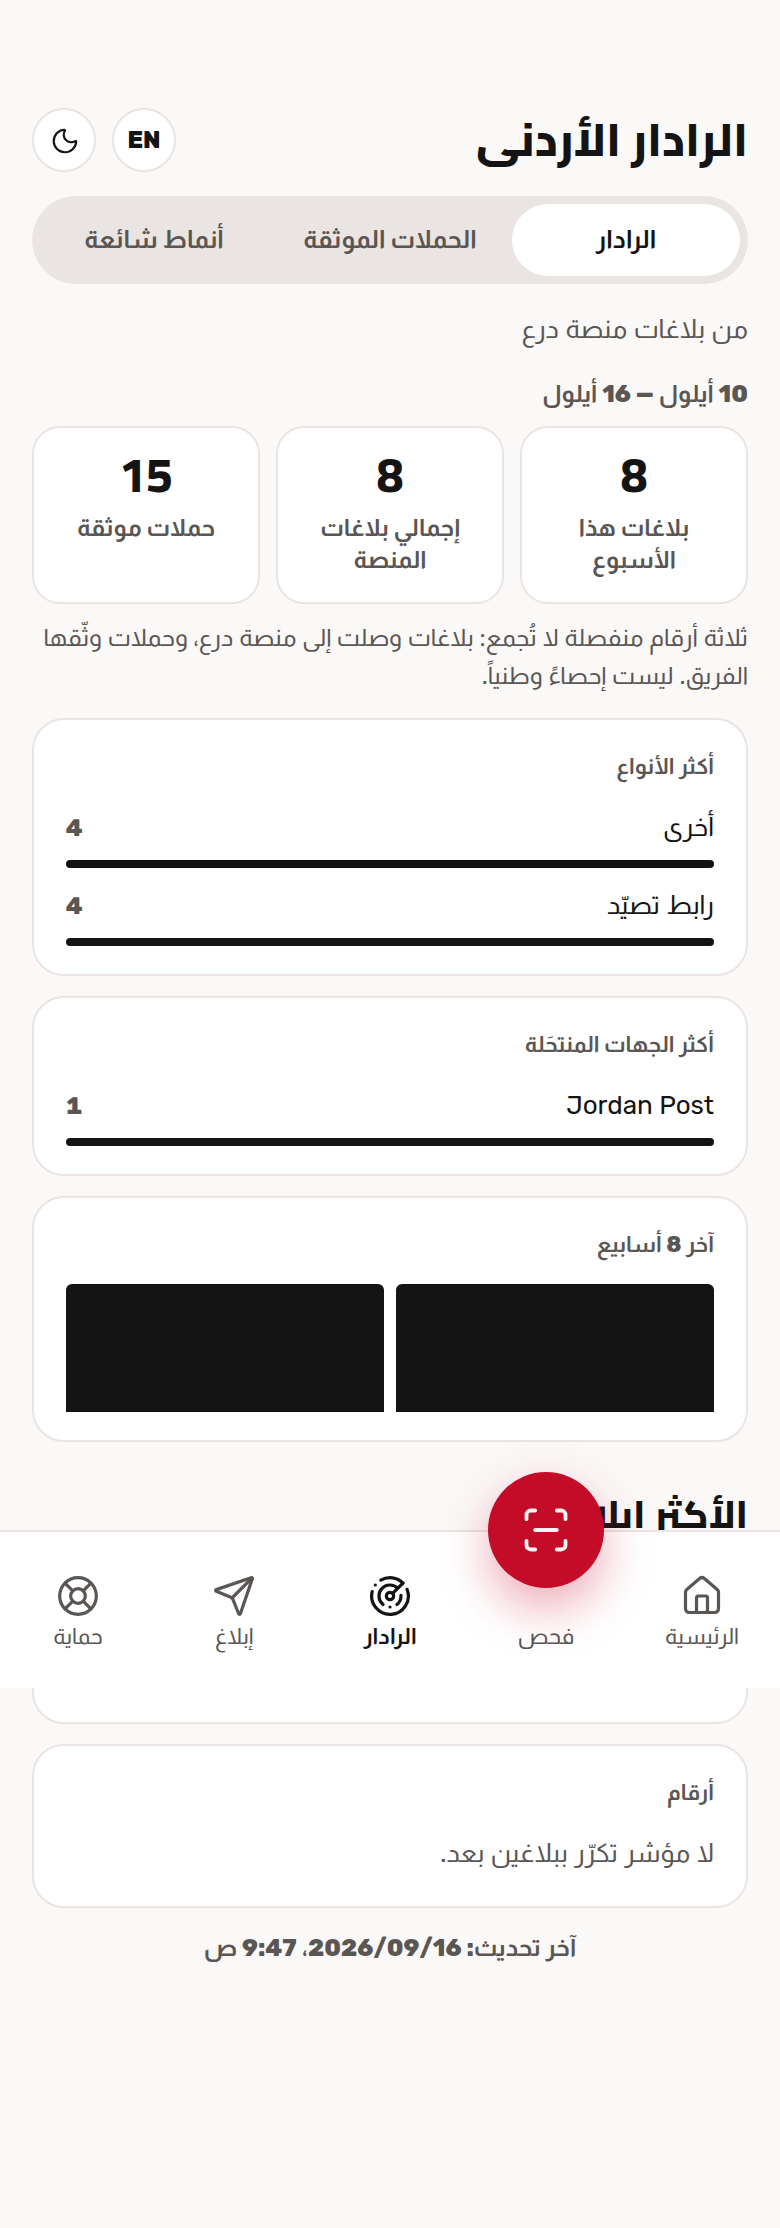
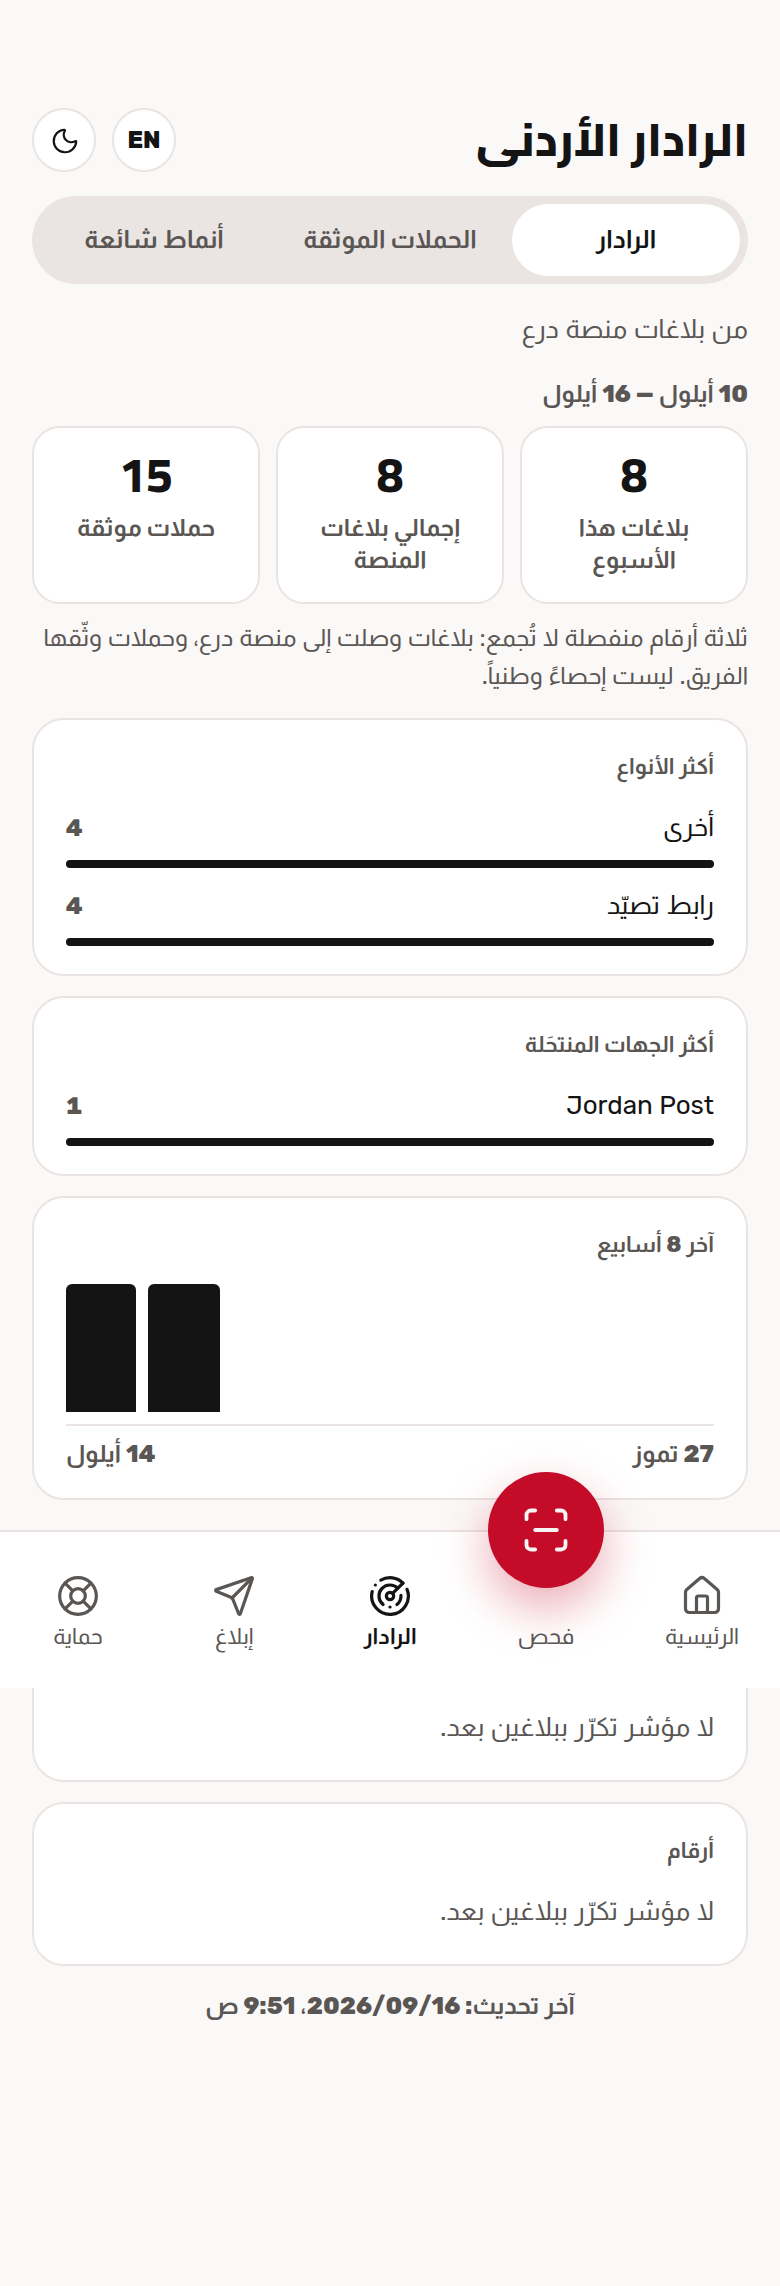
Radar: the trend covers the eight weeks its heading claims
SQL GROUP BY returns only weeks that have rows, so a heading reading "Last 8
weeks" sat above two black slabs — every quiet week had vanished, the two
remaining bars were both full height, and there was no scale to read them
against. The chart carried no information and looked broken on a screen the
demo stops at.

padWeeks() fills the span server-side, oldest first, so the label is true. A
week with nothing in it draws no bar rather than a floor-height stub, because a
stub reads as a small number. The first and last week are now printed under a
baseline rule, which is what makes the bars mean anything.

Five cases covered in test/radar.test.ts, including the two that would drift:
NOW falling on a Monday, and NOW falling on a Sunday, which belongs to the week
that started six days earlier.

Claude-Session: https://claude.ai/code/session_01GUhqvEgLWJeG27JaCTQ9f3

diff --git a/src/components/RadarNumbers.tsx b/src/components/RadarNumbers.tsx
@@ -1,6 +1,7 @@
 import { Card } from "./Shell";
 import { useI18n, type TextKey } from "../i18n";
 import type { RadarData, RadarRow } from "../lib/api";
+import type { Lang } from "../../shared/types";
 import { dateLocale } from "../lib/locale";
 
 /**
@@ -65,7 +66,7 @@ export function RadarNumbers({ radar }: { radar: RadarData }) {
       )}
 
       <Block title={t("radar.trend")}>
-        <Trend rows={radar.trend} emptyLabel={t("radar.empty_trend")} />
+        <Trend rows={radar.trend} emptyLabel={t("radar.empty_trend")} lang={lang} />
       </Block>
 
       <h3 className="t-h3 mt-6">{t("radar.top")}</h3>
@@ -155,29 +156,56 @@ function Rows({
   );
 }
 
+function weekLabel(iso: string, lang: Lang): string {
+  const parsed = new Date(`${iso}T00:00:00Z`);
+  if (Number.isNaN(parsed.getTime())) return iso;
+  return parsed.toLocaleDateString(dateLocale(lang), {
+    month: "short",
+    day: "numeric",
+    timeZone: "UTC",
+  });
+}
+
 function Trend({
   rows,
   emptyLabel,
+  lang,
 }: {
   rows: { week_start: string; count: number }[];
   emptyLabel: string;
+  lang: Lang;
 }) {
   const most = Math.max(...rows.map((row) => row.count), 0);
   if (rows.length === 0 || most === 0) return <p className="t-sub">{emptyLabel}</p>;
+  const first = rows[0];
+  const last = rows[rows.length - 1];
   return (
-    <ul className="flex h-16 items-end gap-1.5">
-      {rows.map((row) => (
-        <li
-          key={row.week_start}
-          className="flex h-full flex-1 items-end"
-          aria-label={`${row.week_start}: ${row.count}`}
-        >
-          <span
-            className="block w-full rounded-t-[3px] bg-ink"
-            style={{ height: `${Math.max(6, Math.round((row.count / most) * 100))}%` }}
-          />
-        </li>
-      ))}
-    </ul>
+    <>
+      <ul className="flex h-16 items-end gap-1.5">
+        {rows.map((row) => (
+          <li
+            key={row.week_start}
+            className="flex h-full flex-1 items-end"
+            aria-label={`${row.week_start}: ${row.count}`}
+          >
+            {/* A week with nothing in it gets no bar, only the rule below it.
+                A floor height here would draw a quiet week as a small one. */}
+            <span
+              className="block w-full rounded-t-[3px] bg-ink"
+              style={{
+                height: row.count === 0 ? 0 : `${Math.max(8, Math.round((row.count / most) * 100))}%`,
+              }}
+            />
+          </li>
+        ))}
+      </ul>
+      {/* The bars are only readable against the span they cover. */}
+      <div className="mt-1.5 border-t border-line pt-1.5">
+        <p className="t-meta flex items-center justify-between text-ink-2">
+          <bdi>{weekLabel(first.week_start, lang)}</bdi>
+          <bdi>{weekLabel(last.week_start, lang)}</bdi>
+        </p>
+      </div>
+    </>
   );
 }

diff --git a/worker/routes/radar.ts b/worker/routes/radar.ts
@@ -36,6 +36,42 @@ function verifiedCampaignCount(): number {
   return list.filter((entry) => entry.verified === true).length;
 }
 
+/** How many weeks the trend covers. The label on the screen says the same number. */
+export const TREND_WEEKS = 8;
+
+/** The Monday of the week a date falls in, in UTC. */
+function mondayOf(date: Date): string {
+  const d = new Date(Date.UTC(date.getUTCFullYear(), date.getUTCMonth(), date.getUTCDate()));
+  d.setUTCDate(d.getUTCDate() - ((d.getUTCDay() + 6) % 7));
+  return d.toISOString().slice(0, 10);
+}
+
+/**
+ * Every one of the last `weeks` weeks, oldest first, with a zero where nothing
+ * was reported.
+ *
+ * SQL GROUP BY only returns weeks that have rows, so a quiet fortnight came
+ * back as two bars under a heading that says eight weeks. Padding here means
+ * the chart shows the span the label promises, and a quiet week reads as quiet
+ * instead of vanishing.
+ */
+export function padWeeks(
+  rows: { week_start: string; count: number }[],
+  now: Date,
+  weeks = TREND_WEEKS,
+): { week_start: string; count: number }[] {
+  const counts = new Map(rows.map((row) => [row.week_start, row.count]));
+  const thisMonday = new Date(`${mondayOf(now)}T00:00:00Z`);
+  const out: { week_start: string; count: number }[] = [];
+  for (let back = weeks - 1; back >= 0; back -= 1) {
+    const day = new Date(thisMonday);
+    day.setUTCDate(day.getUTCDate() - back * 7);
+    const key = day.toISOString().slice(0, 10);
+    out.push({ week_start: key, count: counts.get(key) ?? 0 });
+  }
+  return out;
+}
+
 /** Monday of the week a timestamp falls in, in SQLite. */
 const WEEK_START = "date(created_at, '-' || ((strftime('%w', created_at) + 6) % 7) || ' days')";
 
@@ -137,7 +173,7 @@ export async function radar(db: D1Database): Promise<RadarResponse> {
       by_category: byCategory.results ?? [],
       by_entity: byEntity.results ?? [],
     },
-    trend: trend.results ?? [],
+    trend: padWeeks(trend.results ?? [], new Date()),
     top_hosts: tally(reported.flatMap(hostsIn)),
     top_numbers: tally(reported.flatMap(numbersIn)),
   };

diff --git a/test/radar.test.ts b/test/radar.test.ts
@@ -1,5 +1,5 @@
 import { describe, expect, it } from "vitest";
-import { hostsIn, numbersIn, tally } from "../worker/routes/radar";
+import { hostsIn, numbersIn, tally, padWeeks } from "../worker/routes/radar";
 import { normaliseDomain, operatorOf } from "../worker/routes/lookup";
 
 describe("hostsIn", () => {
@@ -75,5 +75,44 @@ describe("operatorOf", () => {
 
   it("calls a non-Jordanian number foreign", () => {
     expect(operatorOf("447700900123")).toBe("foreign");
+  });
+});
+
+describe("padWeeks", () => {
+  const NOW = new Date("2026-09-16T12:00:00Z"); // a Wednesday
+
+  it("returns eight weeks, oldest first, ending with this one", () => {
+    const out = padWeeks([], NOW);
+    expect(out).toHaveLength(8);
+    expect(out[7].week_start).toBe("2026-09-14"); // the Monday of NOW's week
+    expect(out[0].week_start).toBe("2026-07-27");
+    expect(out.map((w) => w.count)).toEqual([0, 0, 0, 0, 0, 0, 0, 0]);
+  });
+
+  it("keeps the counts it was given and zeroes the rest", () => {
+    const out = padWeeks(
+      [
+        { week_start: "2026-09-07", count: 4 },
+        { week_start: "2026-09-14", count: 4 },
+      ],
+      NOW,
+    );
+    expect(out.map((w) => w.count)).toEqual([0, 0, 0, 0, 0, 0, 4, 4]);
+  });
+
+  it("drops a week older than the window rather than distorting it", () => {
+    const out = padWeeks([{ week_start: "2026-01-05", count: 99 }], NOW);
+    expect(out).toHaveLength(8);
+    expect(out.every((w) => w.count === 0)).toBe(true);
+  });
+
+  it("is stable when NOW is itself a Monday", () => {
+    const out = padWeeks([{ week_start: "2026-09-14", count: 2 }], new Date("2026-09-14T00:00:00Z"));
+    expect(out[7]).toEqual({ week_start: "2026-09-14", count: 2 });
+  });
+
+  it("is stable when NOW is a Sunday, which belongs to the week that started Monday", () => {
+    const out = padWeeks([{ week_start: "2026-09-14", count: 2 }], new Date("2026-09-20T23:59:00Z"));
+    expect(out[7]).toEqual({ week_start: "2026-09-14", count: 2 });
   });
 });
